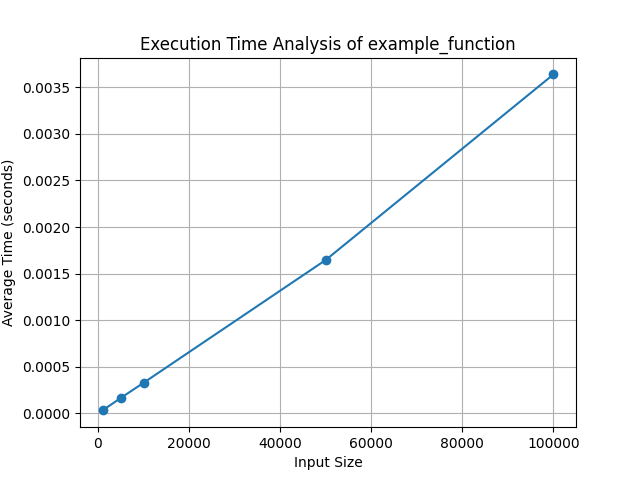
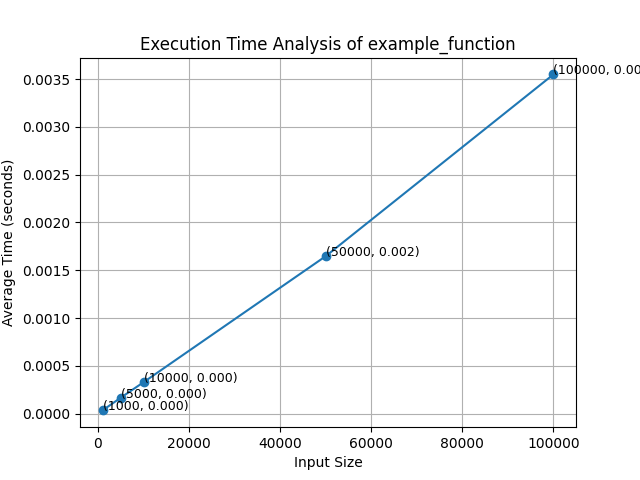
feat: add value tags to points on graphs

diff --git a/utils.py b/utils.py
@@ -43,13 +43,19 @@ def analyze_execution_time(plot_path, func, params_list, runs=10):
     """
     times = []
     
-    # Measure execution time for each set of parameters
+   # Measure execution time for each set of parameters
     for params in params_list:
         avg_time = average_execution_time(func, *params, runs=runs)
         times.append(avg_time)
     
     # Plot the results
-    plt.plot([params[0] for params in params_list], times, marker='o')  # Assuming the first param is the one growing
+    input_sizes = [params[0] for params in params_list]  # Assuming the first param is the input size
+    plt.plot(input_sizes, times, marker='o')
+
+    # Annotate each point with its coordinates
+    for i, (x, y) in enumerate(zip(input_sizes, times)):
+        plt.text(x, y, f"({x}, {y:.3f})", fontsize=9, ha='left')
+
     plt.title(f'Execution Time Analysis of {func.__name__}')
     plt.xlabel('Input Size')
     plt.ylabel('Average Time (seconds)')
@@ -59,14 +65,14 @@ def analyze_execution_time(plot_path, func, params_list, runs=10):
     return times
 
 '''
-Example Usage
+# Example Usage
 def example_function(n):
     total = 0
     for i in range(n):
         total += i
     return total
 
-Analyze execution times for increasing input sizes
+# Analyze execution times for increasing input sizes
 params_list = [(1000,), (5000,), (10000,), (50000,), (100000,)]
 analyze_execution_time("./plots/test.png", example_function, params_list, runs=10)
 '''
